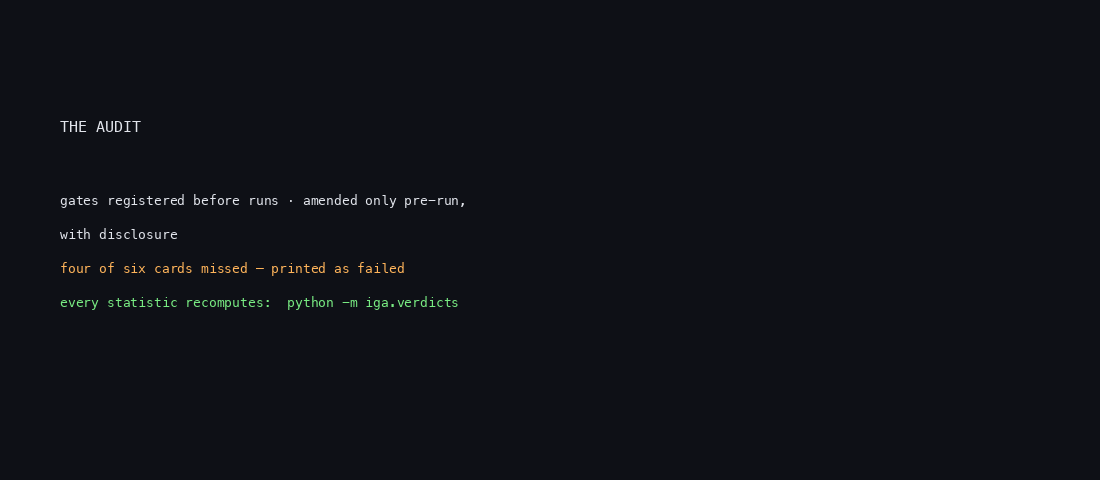
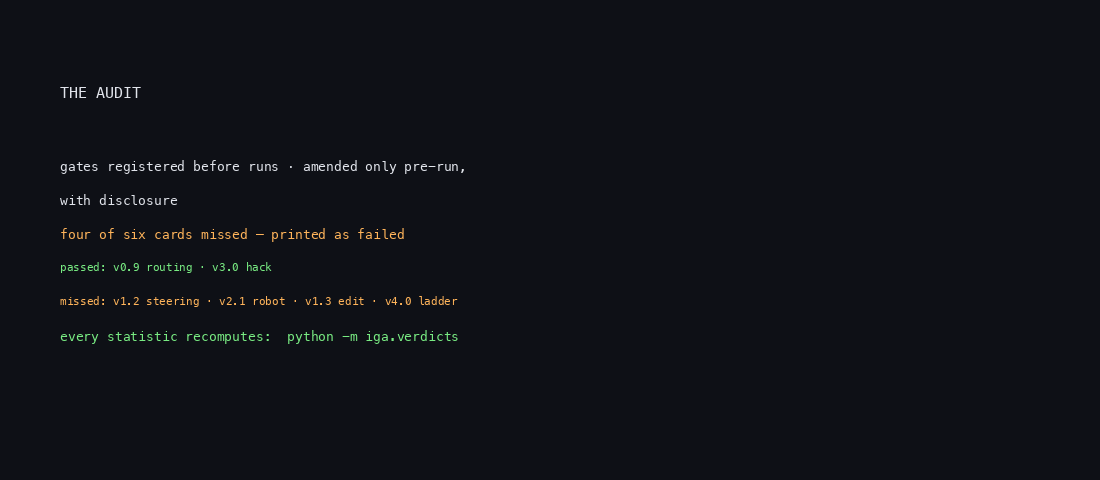
b5 audit board gains the six-card pass/fail tally (viewer-test finding: 'four of six' landed as vibe, not knowledge — the board now names them).

diff --git a/iga/render_v40.py b/iga/render_v40.py
@@ -981,6 +981,9 @@ BOARDS = {
         ("with disclosure", F_MAIN, COL_TEXT),
         ("four of six cards missed — printed as failed", F_MAIN,
          COL_VITAL),
+        ("passed: v0.9 routing · v3.0 hack", F_SMALL, COL_ARRIVE),
+        ("missed: v1.2 steering · v2.1 robot · v1.3 edit · v4.0 ladder",
+         F_SMALL, COL_VITAL),
         ("every statistic recomputes:  python -m iga.verdicts",
          F_MAIN, COL_ARRIVE)],
     "b6_llm_bet": [
